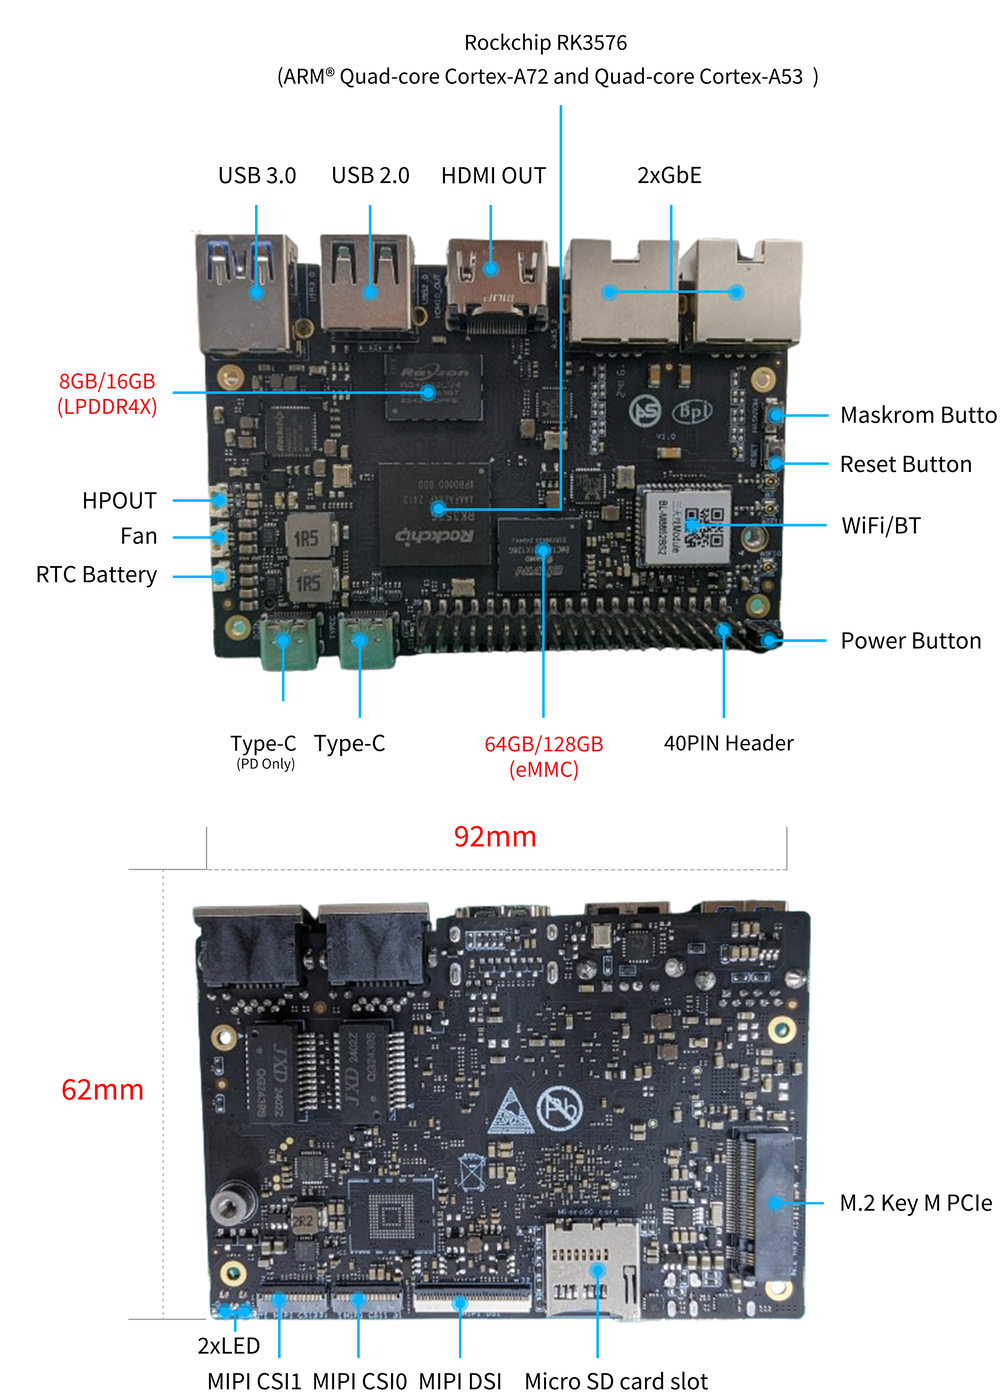
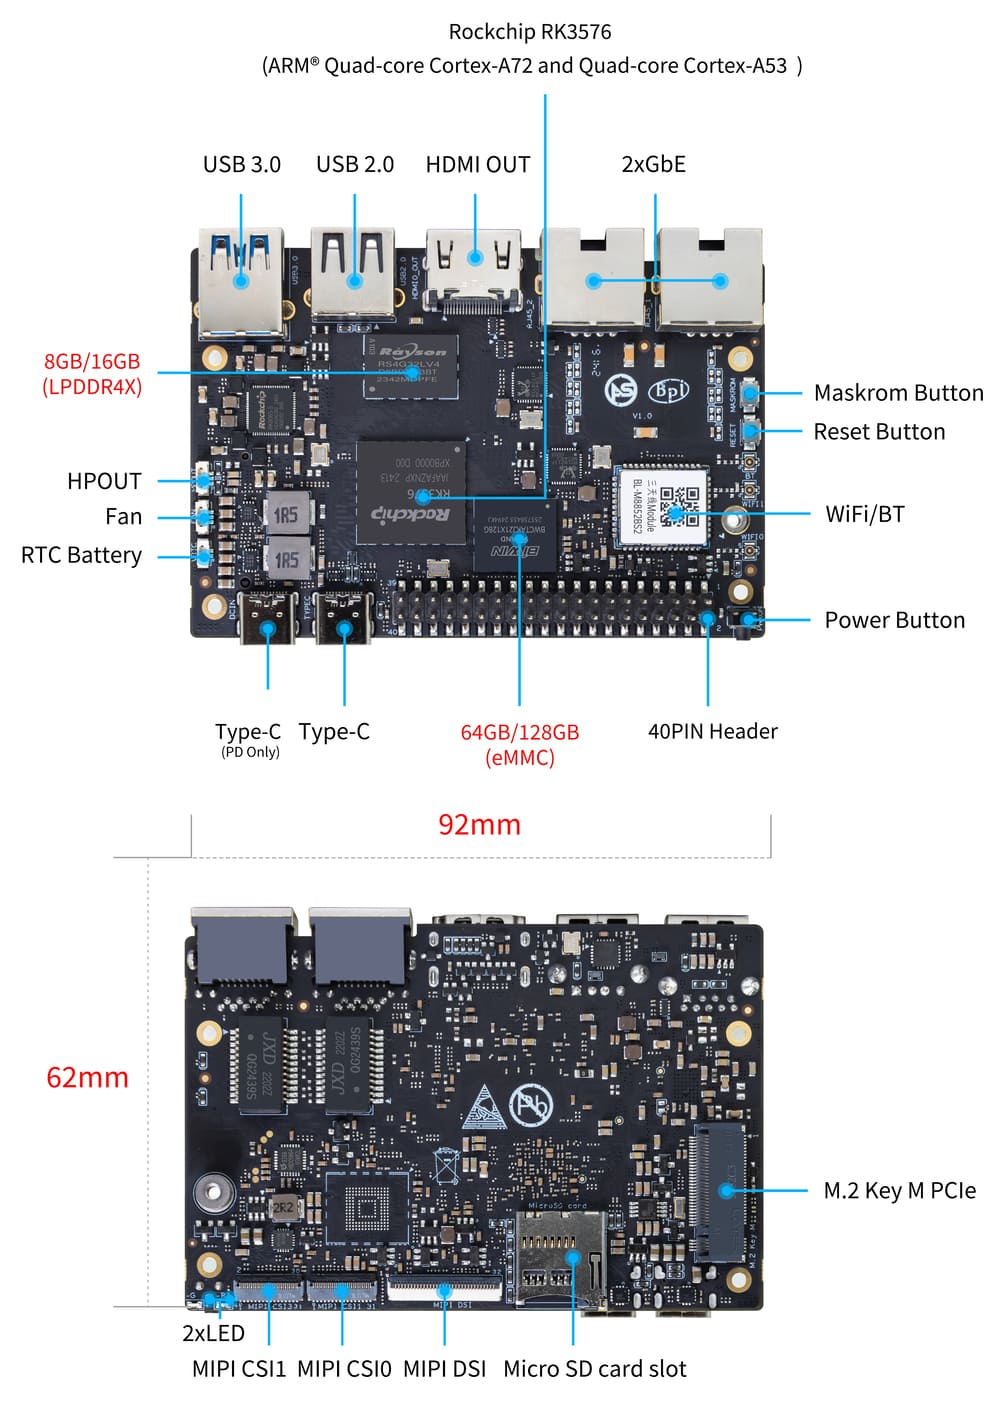
sige5

diff --git a/i18n/zh/docusaurus-plugin-content-docs/current/main/sige5.md b/i18n/zh/docusaurus-plugin-content-docs/current/main/sige5.md
@@ -14,6 +14,8 @@ slug: /armsom-sige5
 
 ArmSoM-Sige5 采用Rockchip RK3576第二代8nm高性能AIOT平台，6 TOPS算力NPU，最大可配32GB大内存。支持8K视频编解码，拥有丰富的接口，支持双千兆网口，WiFi6 & BT5和多种视频输出。支持多种操作系统，适用于基于ARM的PC和边缘计算设备、个人移动互联网设备和其他数字多媒体应用。
 
+![ArmSoM-sige5](/img/sige/sige5.png)
+
 ### 关键参数
 
 - SOC：瑞芯微 RK3576
